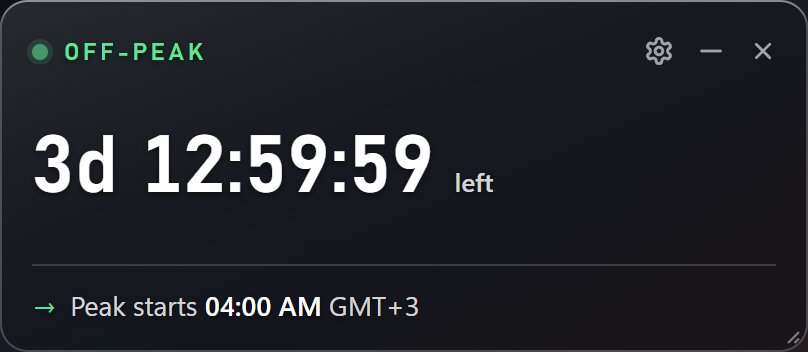
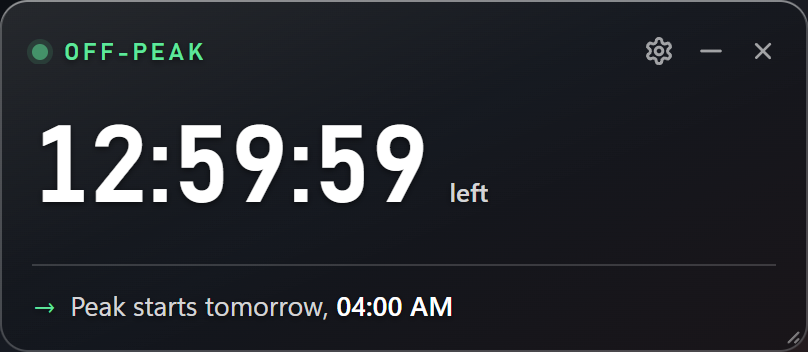
Name the day when the next price change is not today

Changed region(s): [[0.0309, 0.3438, 0.5569, 0.5938], [0.2475, 0.8438, 0.5569, 0.9062], [0.5569, 0.5, 0.6188, 0.5938]]

diff --git a/ui/widget.js b/ui/widget.js
@@ -111,15 +111,25 @@ function render(next) {
   lastMode = next.mode;
 
   el('badge-label').textContent = next.mode_label;
-  el('badge').title = rulesTitle(next.rules);
+  el('badge').title = [
+    rulesTitle(next.rules),
+    holidayNote(next.holiday),
+    next.next.line,
+  ]
+    .filter(Boolean)
+    .join('\n');
 
   const digits = el('countdown');
   digits.textContent = next.countdown.text;
   digits.dataset.long = String(Boolean(next.countdown.long));
   el('countdown-suffix').textContent = next.countdown.suffix;
 
+  // When the next change is not today, the day is what makes a long off-peak
+  // stretch read as correct rather than broken, and it takes the offset's place.
+  const day = next.next.day || '';
+  const tail = day ? '' : ` ${esc(next.next.abbr)}`;
   el('next-line').innerHTML =
-    `${esc(next.next.phrase)} <b>${esc(next.next.clock)}</b> ${esc(next.next.abbr)}`;
+    `${esc(next.next.phrase)} ${esc(day)}<b>${esc(next.next.clock)}</b>${tail}`;
 
   renderChips(next.tz);
   if (next.prefs) renderToggles(next.prefs);
@@ -134,6 +144,18 @@ function rulesTitle(rules) {
     `Peak ${rules.peak_utc.join(' & ')} UTC, ${rules.days}. ` +
     'Weekends and Chinese public holidays are off-peak all day.'
   );
+}
+
+/** Why a window can run for days: a public holiday plus the weekend it touches. */
+function holidayNote(holiday) {
+  if (!holiday) return '';
+  if (holiday.today) {
+    return `${holiday.today.name} today — Chinese public holidays are off-peak all day.`;
+  }
+  const next = (holiday.upcoming || [])[0];
+  if (!next || next.in_days > 10) return '';
+  const when = next.in_days === 1 ? 'tomorrow' : `in ${next.in_days} days`;
+  return `${next.name} ${when} — Chinese public holidays are off-peak all day.`;
 }
 
 /**

diff --git a/schedule.py b/schedule.py
@@ -435,6 +435,27 @@ def build_state(
     flip_local = flip.astimezone(zone)
     remaining = (flip - now).total_seconds()
 
+    # "Peak starts 04:00 AM" is a lie by omission when the window still has days to
+    # run — a weekend plus a Chinese holiday makes a 3-day off-peak stretch, and the
+    # line then reads like a broken countdown.  Say which day, and drop the offset
+    # there: the date is the part that answers the question (the tooltip keeps both).
+    days_away = (flip_local.date() - local_now.date()).days
+    if days_away <= 0:
+        day_short, day_long, day_suffix = "", "", f" {abbr}"
+    elif days_away == 1:
+        day_short = day_long = "tomorrow, "
+        day_suffix = f" {abbr}"
+    else:
+        # The card only has room for the weekday; the full date goes in `line`,
+        # which the tray, the notifications and the tooltip use.
+        day_short = f"{fmt_weekday(flip_local)} "
+        day_long = f"{fmt_weekday(flip_local)} {flip_local.day} {flip_local.strftime('%b')}, "
+        day_suffix = ""
+    next_line = (
+        f"{next_change_phrase(peak_after)} {day_long}{fmt_clock(flip_local)}{day_suffix}"
+    )
+    next_day = f"{day_short}{fmt_clock(flip_local)}"
+
     return {
         "generated_at": _iso(now),
         "epoch_ms": int(now.timestamp() * 1000),
@@ -479,8 +500,12 @@ def build_state(
             "phrase": next_change_phrase(peak_after),
             "clock": fmt_clock(flip_local),
             "weekday": fmt_weekday(flip_local),
+            # What the card shows next to the clock: "Mon 04:00 AM", or the plain
+            # clock with the offset when the change is today.
+            "day": day_short,
+            "day_clock": next_day,
             "abbr": abbr,
-            "line": f"{next_change_phrase(peak_after)} {fmt_clock(flip_local)} {abbr}",
+            "line": next_line,
         },
         "rows": _rows(now, zone, holidays, horizon),
         "segments": _segments(now, zone, holidays),

diff --git a/tests/test_schedule.py b/tests/test_schedule.py
@@ -189,9 +189,23 @@ class Payload(unittest.TestCase):
         self.assertEqual(self.state["next"]["mode_name"], "Peak")
         self.assertEqual(self.state["next"]["mode_label"], "PEAK")
         self.assertEqual(
-            self.state["next"]["line"], "Peak starts 06:30 AM GMT+5:30"
+            self.state["next"]["line"], "Peak starts tomorrow, 06:30 AM GMT+5:30"
         )
         self.assertEqual(self.state["tz"]["abbr"], "GMT+5:30")
+
+    def test_next_line_names_the_day_when_it_is_not_today(self):
+        """A 3-day off-peak stretch (weekend + Mid-Autumn) must not read like a bug."""
+        # Thu 24 Sep 2026 11:00 UTC: off-peak, and the next peak is Mon 28 Sep
+        # because 25-27 Sep are the Mid-Autumn Festival plus the weekend.
+        holiday_state = S.build_state(at("2026-09-24T11:00"), "Asia/Qatar", HOLIDAYS)
+        self.assertEqual(holiday_state["countdown"]["seconds"] >= 3 * 86400, True)
+        self.assertEqual(holiday_state["next"]["line"], "Peak starts Mon 28 Sep, 04:00 AM")
+        # The card has less room than the notification, so it shows the weekday only.
+        self.assertEqual(holiday_state["next"]["day"], "Mon ")
+        self.assertEqual(holiday_state["next"]["day_clock"], "Mon 04:00 AM")
+        # A flip later the same day keeps the short form with the offset.
+        today_state = S.build_state(at("2026-09-22T11:00"), "Asia/Qatar", HOLIDAYS)
+        self.assertEqual(today_state["next"]["line"], "Peak starts tomorrow, 04:00 AM GMT+3")
 
     def test_window_table_matches_the_reference_design(self):
         rows = self.state["rows"]
